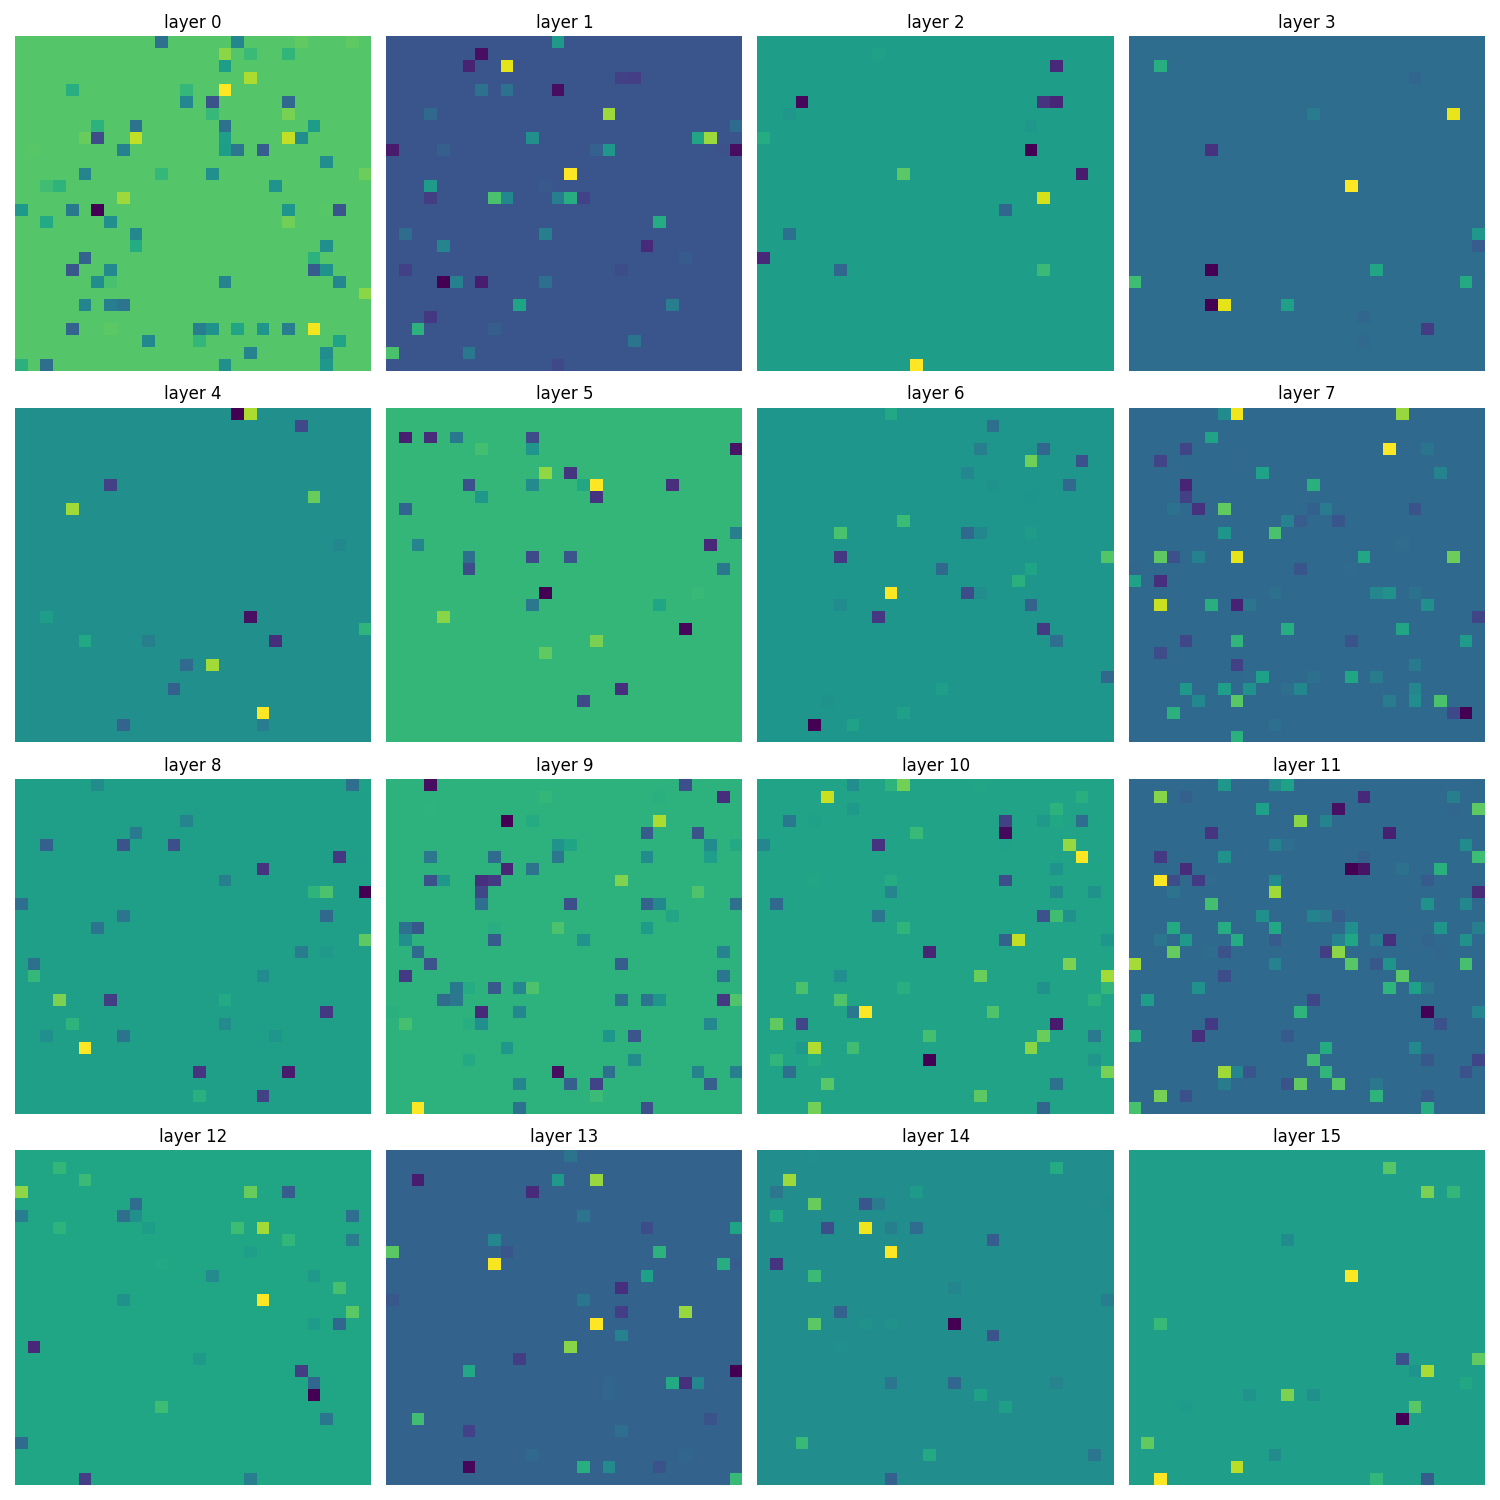
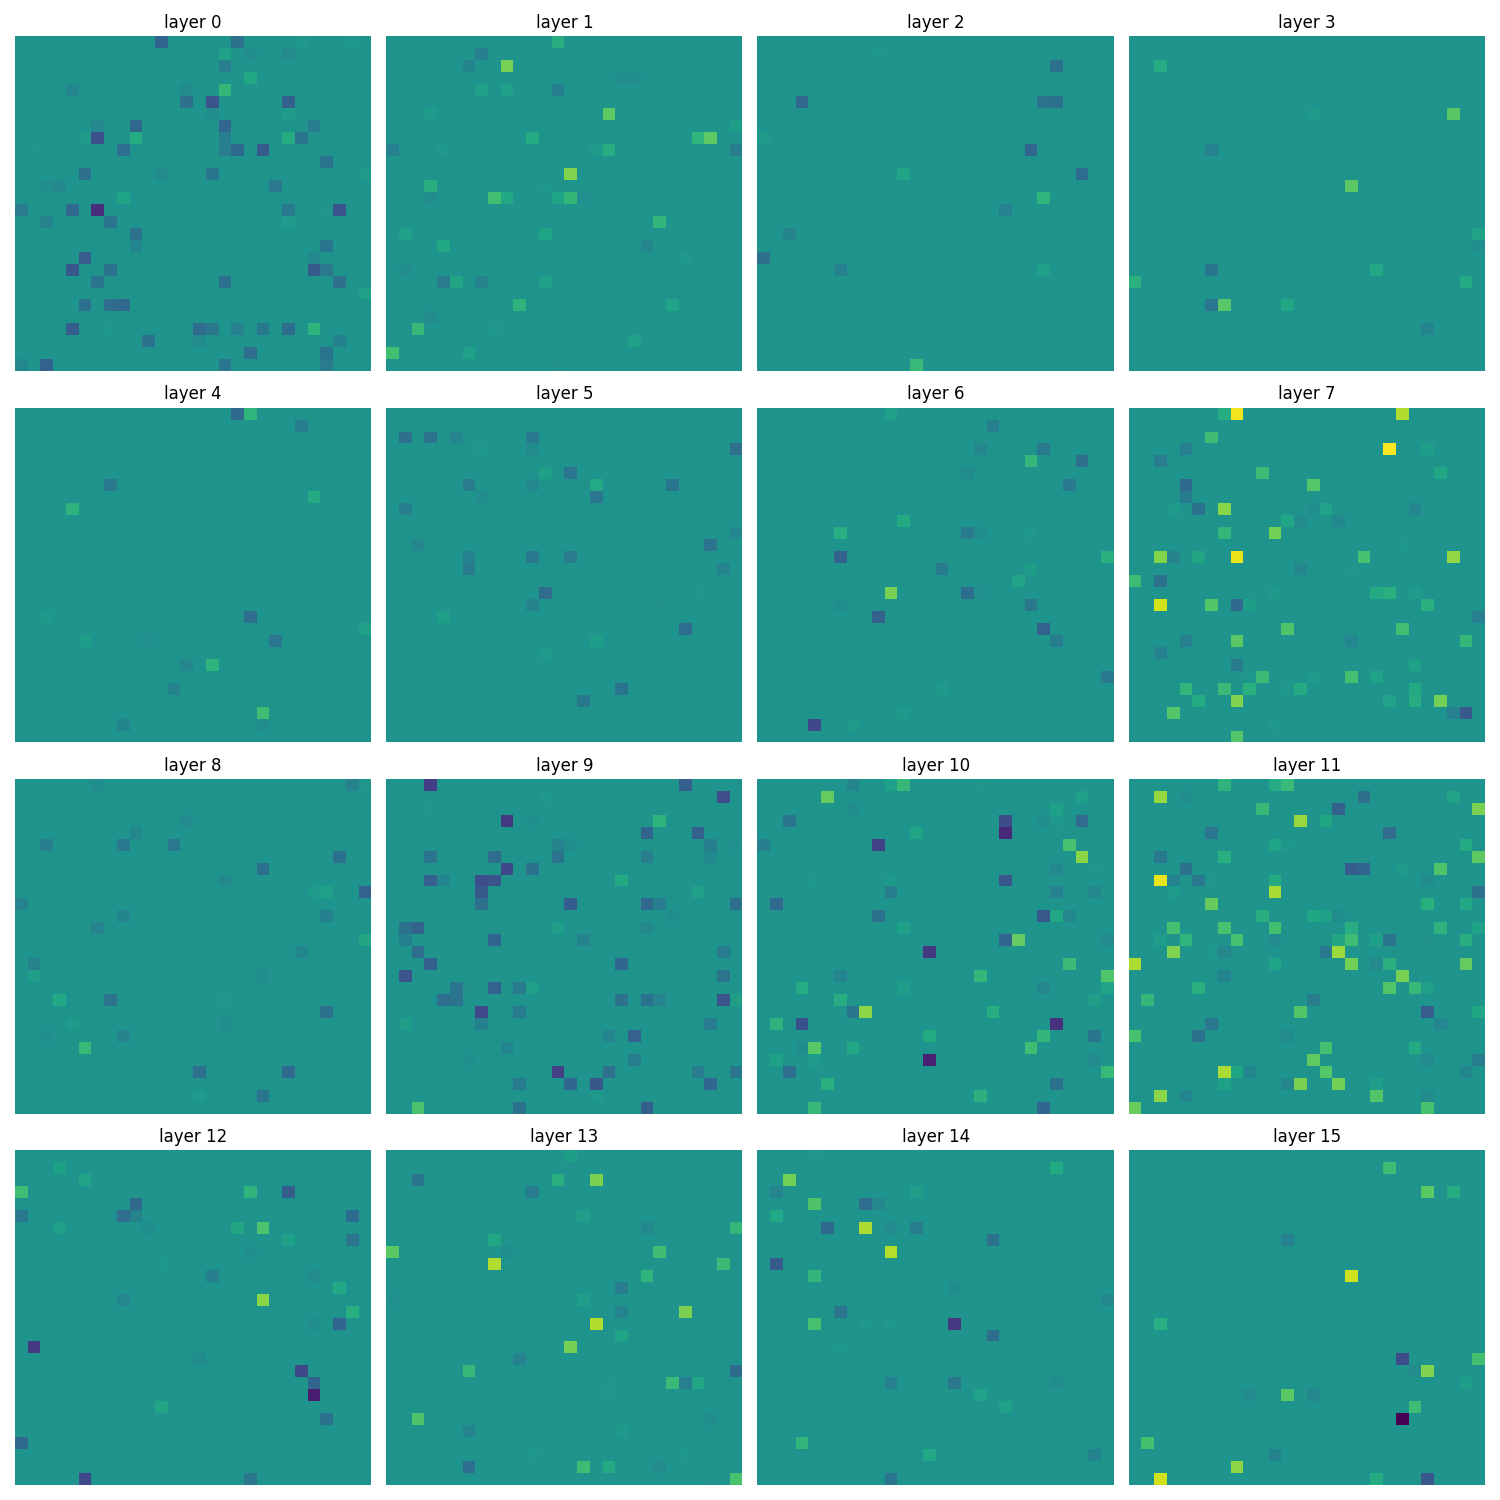
clustering

diff --git a/cluster-regions.py b/cluster-regions.py
@@ -1,0 +1,61 @@
+import numpy as np
+import numpy.linalg as LA
+
+import pickle as pkl
+from tqdm import tqdm
+import matplotlib.pyplot as plt
+
+MASK_FILE = 'data/topotest-lmask.pkl'
+SAVEPATH = 'data/topotest-regions.pkl'
+
+def kmeans(X, k):
+    # randomly select k centers
+    Z = X[np.random.choice(X.shape[0], size=3, replace=False), :]
+    C = get_choices(X, Z)
+
+    for _ in range(1000):
+        Z = [(1/len(c)) * sum(c) for c in C]
+        C = get_choices(X, Z)
+
+    return Z, [np.array(y) for y in C]
+
+def get_choices(X, Z):
+    C = [[] for _ in Z]
+
+    for x in X:
+        scores = [LA.norm(z - x) ** 2 for z in Z]
+        C[scores.index(min(scores))].append(x)
+
+    return C
+
+if __name__ == "__main__":
+
+    with open(MASK_FILE, 'rb') as f:
+        mask = pkl.load(f)
+
+    layer_names = [f'encoder.layers.{i}.attn.dense' for i in range(16)]
+
+    coordinates = [[] for _ in range(16)]
+    k_means_results = {layer_name : {'centers' : [], 'coordinates' : []} for layer_name in layer_names}
+
+    for i in range(mask.shape[0]):
+
+        coordinates[i] = np.argwhere(mask[i].reshape(28, 28) == 1)
+
+        Z, C = kmeans(coordinates[i], 3)
+        
+        k_means_results[layer_names[i]]['centers'] = Z
+        k_means_results[layer_names[i]]['coordinates'] = C
+
+    with open(SAVEPATH, 'wb') as f:
+        pkl.dump(k_means_results, f)
+
+    # print(coordinates[0])
+
+    # print(C[0].shape)
+
+    # plt.scatter(Z[:, 0], Z[:, 1], color = 'purple')
+    # plt.scatter(C[0][:, 0], C[0][:, 1], color = 'r')
+    # plt.scatter(C[1][:, 0], C[1][:, 1], color = 'g')
+    # plt.scatter(C[2][:, 0], C[2][:, 1], color = 'b')
+    # plt.show()

diff --git a/load_model.py b/load_model.py
@@ -1,0 +1,44 @@
+"""Example for a script to load a local saved model.
+
+Use as e.g.
+
+python load_local_model.py name=A6000amp_b4096_c5_o3_final base_dir=~/Documents/cmlscratch_backups/cramming/
+> wandb=none impl.push_to_huggingface_hub=True arch=bert-c5 train=bert-o3 train.batch_size=4096
+> data=c4-subset-processed dryrun=True +eval=GLUE_sane
+
+"""
+
+import os
+import hydra
+
+import cramming
+from transformers import AutoTokenizer
+
+MODEL_FILE = '~/projects/topo-eval/outputs/topotest/checkpoints/ScriptableMaskedLM_2024-07-03_9.9417/model.pth'
+
+def main_load_process(cfg, setup):
+
+    tokenizer = AutoTokenizer.from_pretrained("JonasGeiping/crammed-bert")
+    model = cramming.construct_model(cfg.arch, tokenizer.vocab_size)
+    
+    model_engine, _, _, _ = cramming.load_backend(model, None, tokenizer, cfg.train, cfg.impl, setup=setup)
+    model_path = os.path.expanduser(MODEL_FILE)
+    model_engine.load_checkpoint(cfg.arch, model_path)
+
+    model_engine.eval()
+
+    # for name, layer in model.named_modules():
+    #     print(name)
+    for i in range(16):
+        print('M:')
+        print(model.encoder.layers[i].attn.self_attention.head.locality_mask.locality_weight)
+        print('W_O:')
+        print(model.encoder.layers[i].attn.dense.weight)
+
+@hydra.main(config_path="cramming/config", config_name="cfg_pretrain", version_base="1.1")
+def launch(cfg):
+    cramming.utils.main_launcher(cfg, main_load_process, job_name="load and push model")
+
+
+if __name__ == "__main__":
+    launch()

diff --git a/visualize-moseley.py b/visualize-moseley.py
@@ -25,11 +25,15 @@ if __name__ == "__main__":
     layer_names = [f'encoder.layers.{i}.attn.dense' for i in range(16)]
     all_conditions = ['abstract_noun', 'abstract_verb', 'concrete_noun', 'concrete_verb']
 
+    global_min = np.min([np.min(d) for condition in data for d in data[condition]])
+    global_max = np.max([np.max(d) for condition in data for d in data[condition]])
+
     for condition in all_conditions:
+
         fig, axes = plt.subplots(4, 4, figsize=(15, 15))
 
         for i, ax in enumerate(axes.flatten()):
-            sns.heatmap(data[condition][i].reshape(28, 28), ax = ax, cbar = False, cmap = 'viridis')
+            sns.heatmap(data[condition][i].reshape(28, 28), ax = ax, cbar = False, cmap = 'viridis', vmin=global_min, vmax=global_max)
             ax.set_title(f'layer {i}')
             ax.axis('off')
 

diff --git a/README.md b/README.md
@@ -2,9 +2,25 @@
 
 evaluating topographic language models
 
-* `extract.py`, `localize.py`, and `responses.py` are scripts for running localization and getting response profiles
+* `extract.py`, `localize.py`, and `responses.py` are scripts for localization / response profiles
+* `visualize.py` and `visualize-moseley.py` are scripts for visualizing activations on various inputs
+* `cluster-regions.py` is a script for identifying neuron clusters
 * `data` stores saved model activations
 * `cramming` is a module for training / running topoformer-bert
+
+## run localization
+localization stimuli from [this link](https://www.dropbox.com/sh/c9jhmsy4l9ly2xx/AACQ41zipSZFj9mFbDfJJ9c4a?e=2&dl=0) should be loaded into the `fedorenko10_stimuli` folder.
+
+to **extract** all activations on the Fedorenko stimuli, run (`sharing_strategy` is necessary for mac / windows)
+```
+python3 extract.py arch=bert-c5_topo impl.sharing_strategy=file_system
+```
+
+to **localize** these activations, run `localize.py`. to measure how the core language system responds to various stimuli, run
+```
+python3 responses.py arch=bert-c5_topo impl.sharing_strategy=file_system +stimuli $stim_name
+```
+with `$stim_name` in {`fedorenko`, `moseley`}.
 
 ## dependencies
 basics:
@@ -16,5 +32,3 @@ the topoformer-bert code is written on top of the [cramming](https://github.com/
 * huggingface `transformers` and `tokenizers`
 * `hydra-core`
 * `psutil`, `pynvml`, `safetensors`, `einops`
-
-localization stimuli from [this link](https://www.dropbox.com/sh/c9jhmsy4l9ly2xx/AACQ41zipSZFj9mFbDfJJ9c4a?e=2&dl=0) should be loaded into the `fedorenko10_stimuli` folder.
